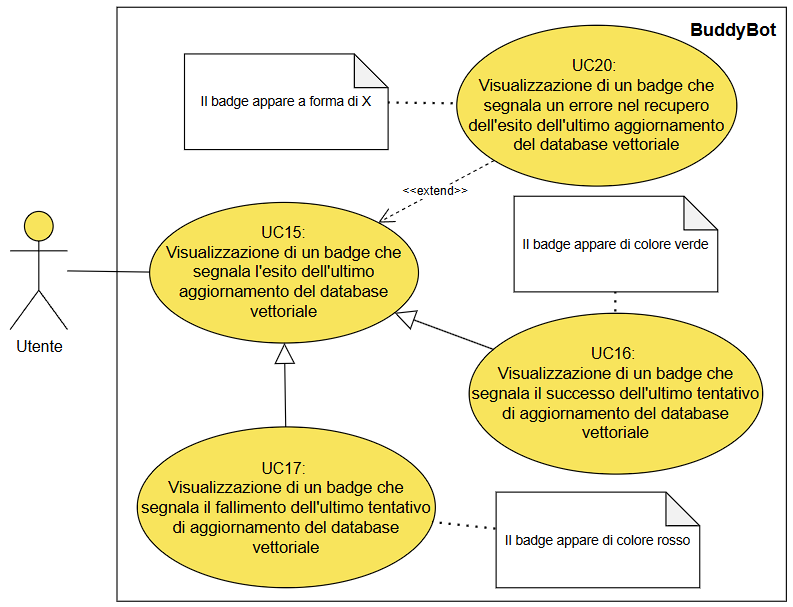
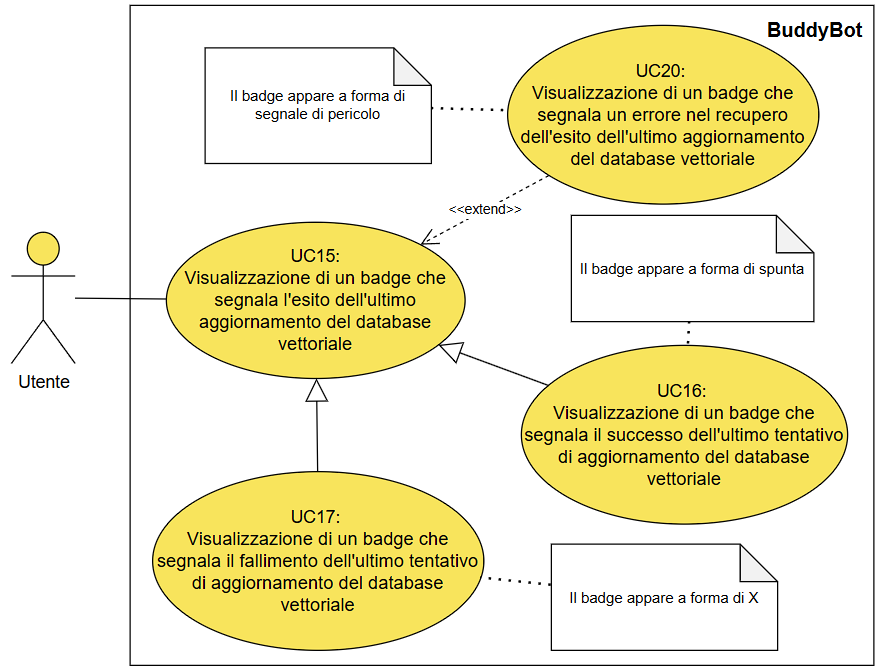
[BUD-273] Modificata AdR inserendo i nuovi simboli del badge

diff --git a/src/PB/Documentazione esterna/Analisi dei Requisiti/contenuti/requisiti.tex b/src/PB/Documentazione esterna/Analisi dei Requisiti/contenuti/requisiti.tex
@@ -57,8 +57,8 @@ solida per la \emph{progettazione}\textsubscript{\textit{\textbf{G}}} del sistem
     \textbf{Codice} & \textbf{Rilevanza} & \textbf{Descrizione} & \textbf{Fonti} \\ \hline
     RZF18 & Opzionale & Dopo la visualizzazione di una risposta, all'utente devono venire suggerite alcune interrogazioni che è possibile porre al sistema per continuare la conversazione. & \bulhyperlink{UC12}{UC12},\bulhyperlink{UC12.1}{UC12.1} \\ \hline
     RZF19 & Opzionale & Nel caso il sistema vada in errore nel tentativo di proporre altre domande per proseguire la conversazione, deve venire mostrato un messaggio che comunica l'errore all'utente e invita a fare altre domande. & \bulhyperlink{UC13}{UC13} \\ \hline
-    RZF20 & Opzionale & Il sistema deve mostrare a schermo un badge colorato sopra alla schermata della chat. & \bulhyperlink{UC15}{UC15} \\ \hline
-    RZF21 & Opzionale & Il sistema deve comunicare all'utente l'esito dell'ultimo tentativo di aggiornamento del database vettoriale utilizzando un badge colorato. & \bulhyperlink{UC15}{UC15} \\ \hline
+    RZF20 & Opzionale & Il sistema deve mostrare a schermo un badge sopra alla schermata della chat. & \bulhyperlink{UC15}{UC15} \\ \hline
+    RZF21 & Opzionale & Il sistema deve comunicare all'utente l'esito dell'ultimo tentativo di aggiornamento del database vettoriale utilizzando un badge. & \bulhyperlink{UC15}{UC15} \\ \hline
     ROF22 & Obbligatorio & Il sistema deve processare i documenti che vengono caricati, creandone i loro \emph{embedding}. & Verbale interno\\ \hline
     ROF23 & Obbligatorio & Il sistema deve salvare, in modo persistente, il contenuto dei documenti caricati. & Verbale interno\\ \hline
     ROF24 & Obbligatorio & Il sistema deve salvare, in modo persistente, i metadati dei documenti caricati. & Verbale interno\\ \hline
@@ -86,7 +86,8 @@ solida per la \emph{progettazione}\textsubscript{\textit{\textbf{G}}} del sistem
     RZF34 & Opzionale & Il sistema deve comunicare all'utente se l'ultimo tentativo di aggiornamento del database vettoriale ha avuto successo. & \bulhyperlink{UC16}{UC16} \\ \hline
     RZF35 & Opzionale & Il sistema deve comunicare all'utente se l'ultimo tentativo di aggiornamento del database vettoriale è fallito. & \bulhyperlink{UC17}{UC17} \\ \hline
     RZF36 & Opzionale & Il sistema deve comunicare all'utente se non è stato possibile recuperare l'esito dell'ultimo aggiornamento del database vettoriale. & \bulhyperlink{UC20}{UC20} \\ \hline
-    RZF37 & Opzionale & L'utente, quando sposta il cursore sopra il badge di risultato dell'aggiornamento automatico del database vettoriale, deve visualizzare un messaggio che spiega il significato del badge. & \bulhyperlink{UC21}{UC21} \\ \hline
+    RZF37 & Opzionale & L'utente, quando sposta il cursore sopra il badge che segnala l'esito dell'aggiornamento automatico del
+    database vettoriale, deve visualizzare un messaggio che spiega il significato del badge nella sua forma corrente. & \bulhyperlink{UC21}{UC21} \\ \hline
     \end{tabularx}
 \end{table}
 
@@ -98,9 +99,12 @@ solida per la \emph{progettazione}\textsubscript{\textit{\textbf{G}}} del sistem
     \begin{tabularx}{\textwidth}{|p{2cm}|p{3cm}|X|p{4cm}|} \hline
     \rowcolor[HTML]{FFD700} 
     \textbf{Codice} & \textbf{Rilevanza} & \textbf{Descrizione} & \textbf{Fonti} \\ \hline
-    RZF38 & Opzionale & Se l'ultimo tentativo di aggiornamento del database vettoriale ha avuto successo, l'utente spostando il cursore sopra il badge deve visualizzare un messaggio che spiega il significato del colore verde del badge. & \bulhyperlink{UC22}{UC22} \\ \hline
-    RZF39 & Opzionale & Se l'ultimo tentativo di aggiornamento del database vettoriale è fallito, l'utente spostando il cursore sopra il badge deve visualizzare un messaggio che spiega il significato del colore rosso del badge. & \bulhyperlink{UC23}{UC23} \\ \hline
-    RZF40 & Opzionale & Se non è stato possibile recuperare l'esito dell'ultimo tentativo di aggiornamento del database vettoriale, l'utente spostando il cursore sopra il badge deve visualizzare un messaggio che spiega il significato della forma a X del badge. & \bulhyperlink{UC24}{UC24} \\ \hline
+    RZF38 & Opzionale & Se l'ultimo tentativo di aggiornamento del database vettoriale ha avuto successo, l'utente spostando il
+    cursore sopra il badge deve visualizzare un messaggio che spiega il significato della forma a spunta del badge. & \bulhyperlink{UC22}{UC22} \\ \hline
+    RZF39 & Opzionale & Se l'ultimo tentativo di aggiornamento del database vettoriale è fallito, l'utente spostando il cursore sopra
+    il badge deve visualizzare un messaggio che spiega il significato della forma a X del badge. & \bulhyperlink{UC23}{UC23} \\ \hline
+    RZF40 & Opzionale & Se non è stato possibile recuperare l'esito dell'ultimo tentativo di aggiornamento del database vettoriale,
+    l'utente spostando il cursore sopra il badge deve visualizzare un messaggio che spiega il significato della forma a segnale di pericolo del badge. & \bulhyperlink{UC24}{UC24} \\ \hline
     \end{tabularx}
     \caption{Requisiti funzionali}
     \label{tab:Requisiti_funzionali}

diff --git a/src/PB/Documentazione esterna/Analisi dei Requisiti/contenuti/casi_uso.tex b/src/PB/Documentazione esterna/Analisi dei Requisiti/contenuti/casi_uso.tex
@@ -635,7 +635,7 @@ L’applicazione prevede la presenza di due \emph{Attori}\textsubscript{\textbf{
     \item \textbf{Scenario principale}:
     \begin{enumerate}
         \item L'utente avvia l'applicazione;
-        \item Il sistema segnala che l'ultimo aggiornamento del database vettoriale ha avuto successo tramite un badge di colore verde.
+        \item Il sistema segnala che l'ultimo aggiornamento del database vettoriale ha avuto successo tramite un badge a forma di spunta.
     \end{enumerate}
     \item \textbf{Eredita da}:
     \begin{itemize}
@@ -655,7 +655,7 @@ L’applicazione prevede la presenza di due \emph{Attori}\textsubscript{\textbf{
     \item \textbf{Scenario principale}:
     \begin{enumerate}
         \item L'utente avvia l'applicazione;
-        \item Il sistema segnala che l'ultimo aggiornamento del database vettoriale è fallito tramite un badge di colore rosso.
+        \item Il sistema segnala che l'ultimo aggiornamento del database vettoriale è fallito tramite un badge a forma di X.
     \end{enumerate}
     \item \textbf{Eredita da}:
     \begin{itemize}
@@ -670,13 +670,13 @@ L’applicazione prevede la presenza di due \emph{Attori}\textsubscript{\textbf{
     \item \textbf{Precondizioni}: L'utente avvia l'applicazione;
     \item \textbf{Trigger}: L'utente desidera visualizzare se l'ultimo tentativo di aggiornamento del database vettoriale
     ha avuto successo o meno;
-    \item \textbf{Postcondizioni}: L'utente visualizza un badge a forma di X che lo informa che è avvenuto un errore nel recupero
+    \item \textbf{Postcondizioni}: L'utente visualizza un badge che lo informa che è avvenuto un errore nel recupero
     dell'esito dell'ultimo aggiornamento del database vettoriale;
     \item \textbf{Scenario principale}:
     \begin{enumerate}
         \item L'utente avvia l'applicazione;
-        \item L'utente visualizza un badge a forma di X che lo informa che è avvenuto un errore nel recupero
-        dell'esito dell'ultimo aggiornamento del database vettoriale.
+        \item Il sistema segnala che non è stato possibile recuperare l'esito dell'ultimo aggiornamento del database vettoriale
+        tramite un badge a forma di segnale di pericolo.
     \end{enumerate}
 \end{itemize}
 
